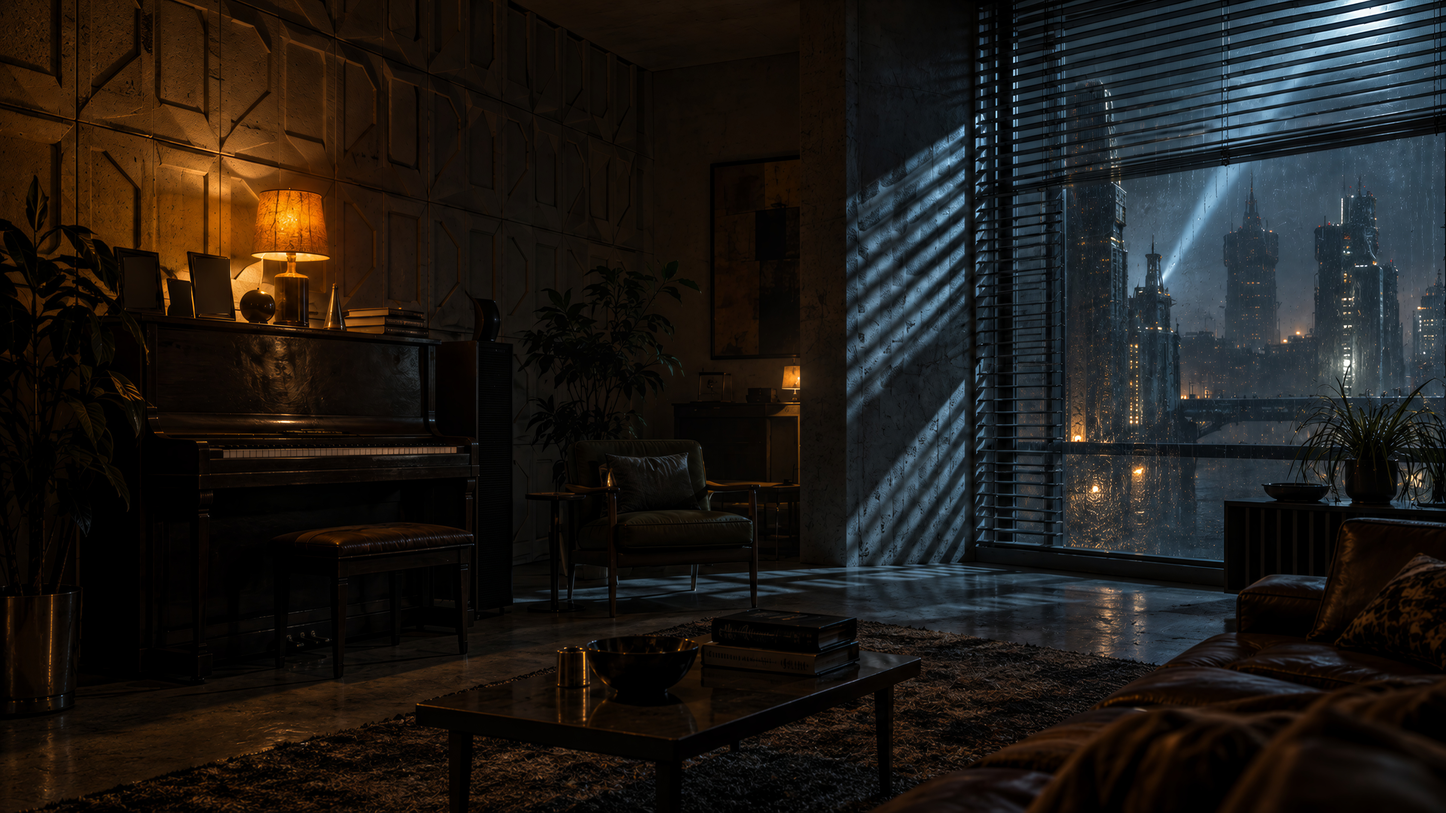
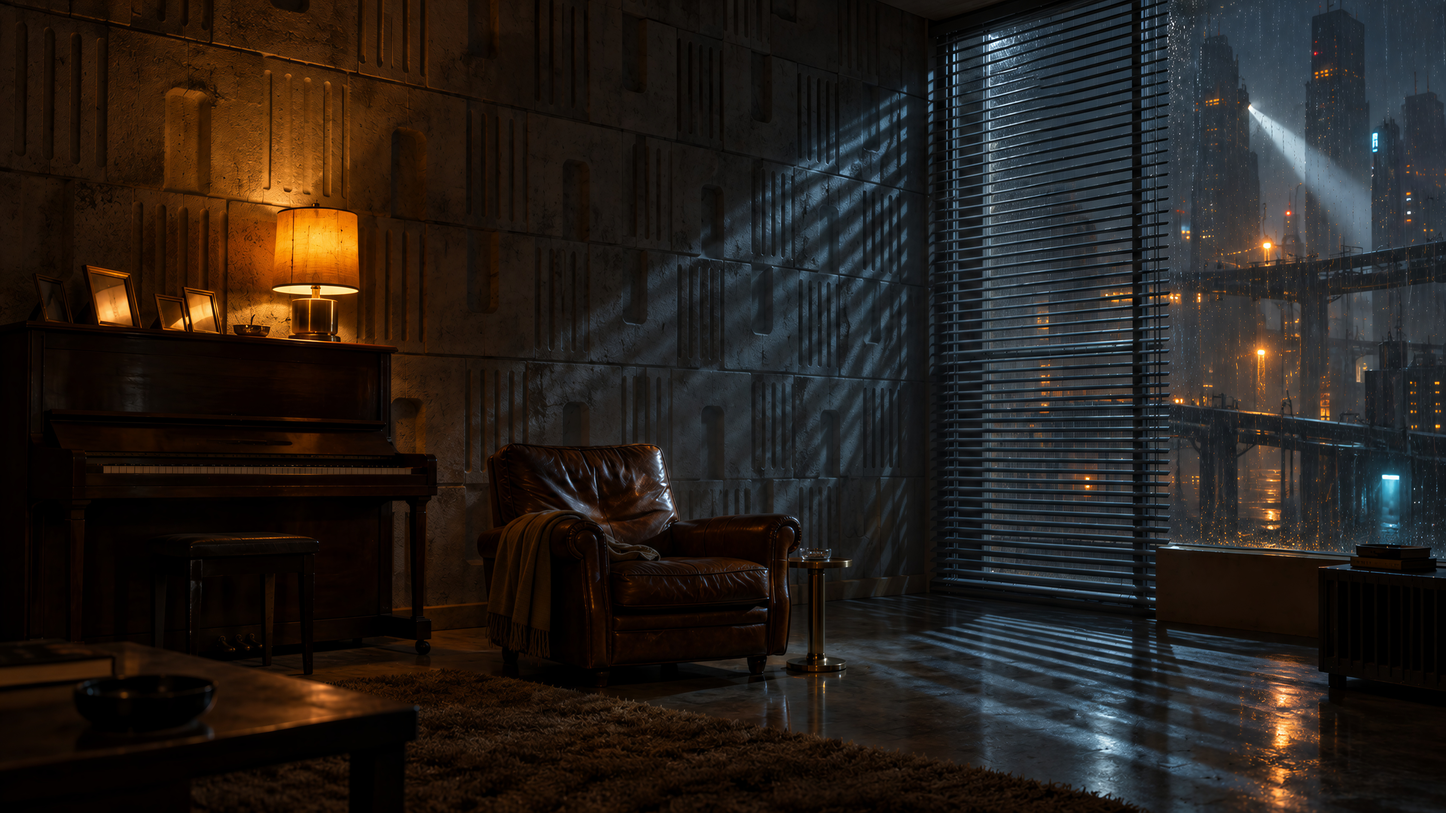
Replace the Blinds and Noodle bar stills.
Both v1 stills read as interior renders. Blinds now has a sparse room
with an armchair and frames that catch the lamp as glare; Noodle bar
has crates and drums instead of diner stools, worn warm tubes, and one
cyan tube. A distant figure and stencil-like marks were retouched out,
and both were finished to 4K with VOSR 2.0 like the rest.

diff --git a/README.md b/README.md
@@ -124,14 +124,15 @@ All five are **3840×2160**.
 
 1. **Dusk**: the top floor of a stepped megastructure at sunset, looking out through smog at pyramids and towers (first in the theme's cycle)
 2. **Flight**: gliding down a rain-filled canyon of megastructures, air traffic, searchlights, and flare stacks where the canyon opens
-3. **Blinds**: an apartment at night, a passing searchlight sliced by venetian blinds across textile-block walls
-4. **Noodle bar**: an empty street counter under a dripping overhang, steam and abstract neon on wet asphalt
+3. **Blinds**: a sparse apartment at night, lamp against a passing searchlight sliced by venetian blinds across textile-block walls
+4. **Noodle bar**: an empty street counter under a dripping overhang, crates and drums for seats, steam and one cyan tube on wet asphalt
 5. **Atrium**: an iron-and-glass atrium in decay, searchlight shafts through the skylight onto a wet tiled floor
 
 Each still is an original generation from a written prompt that rules out
 people, faces, logos, readable text, and recreations of film frames. They were
 generated at 1672×941. Blinds and Noodle bar were retouched where the generator
-added portraits to picture frames and glyph-like marks to a placard.
+added a figure in a distant doorway and stencil-like marks on crates, a drum,
+and a wall box.
 
 Each was then fitted to 4K with Lanczos and restored with the one-step
 [VOSR 2.0](https://github.com/cswry/VOSR) super-resolution model, using a wavelet
